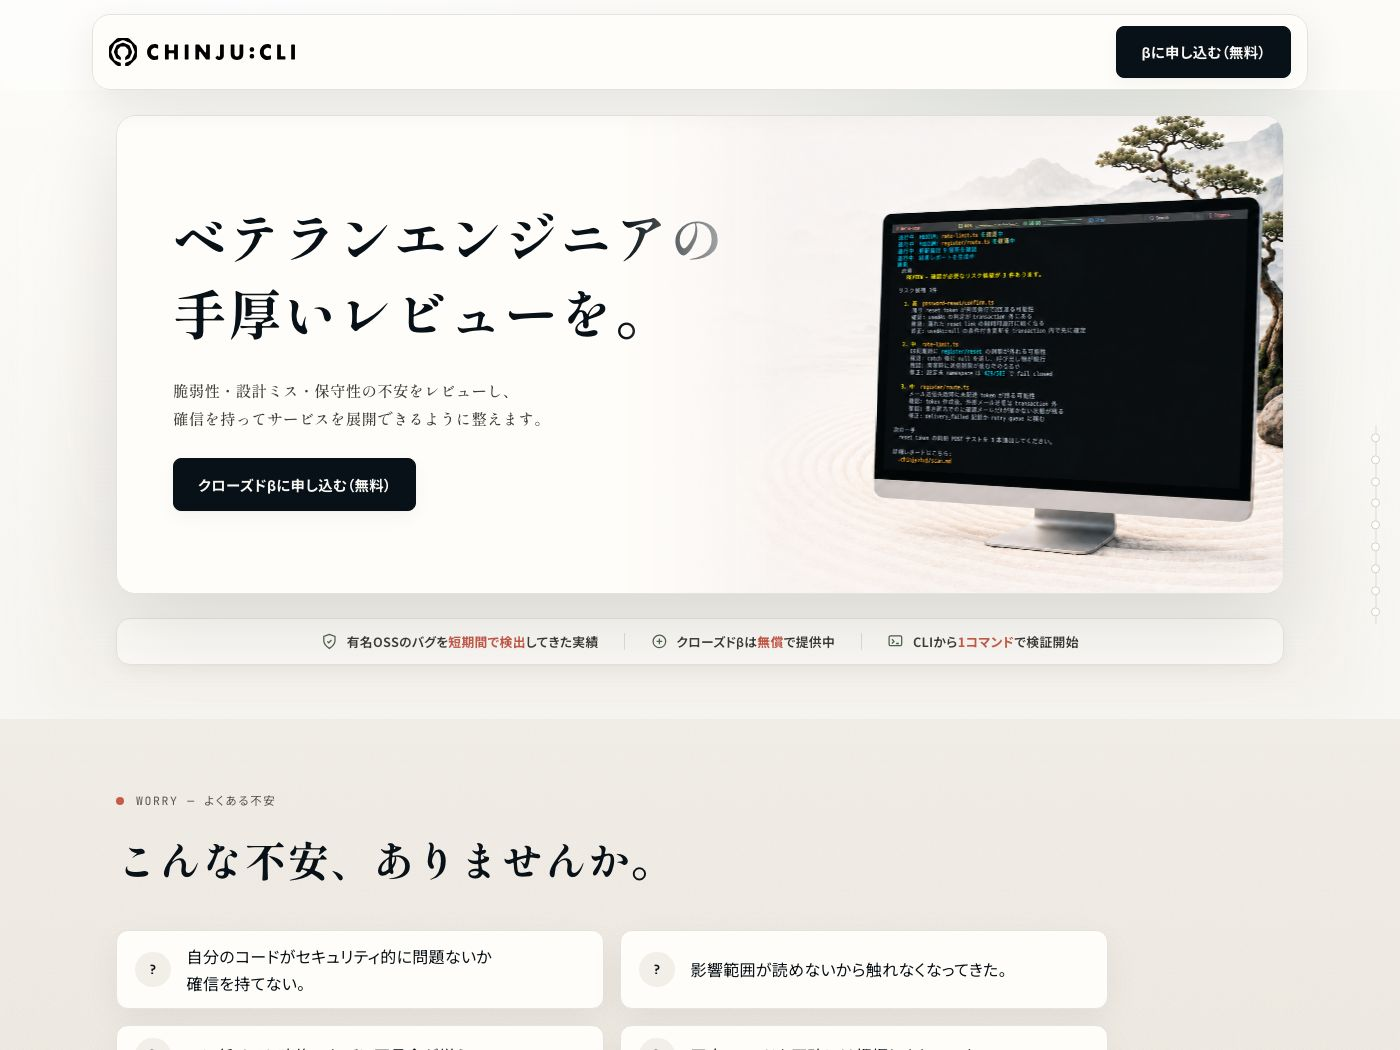
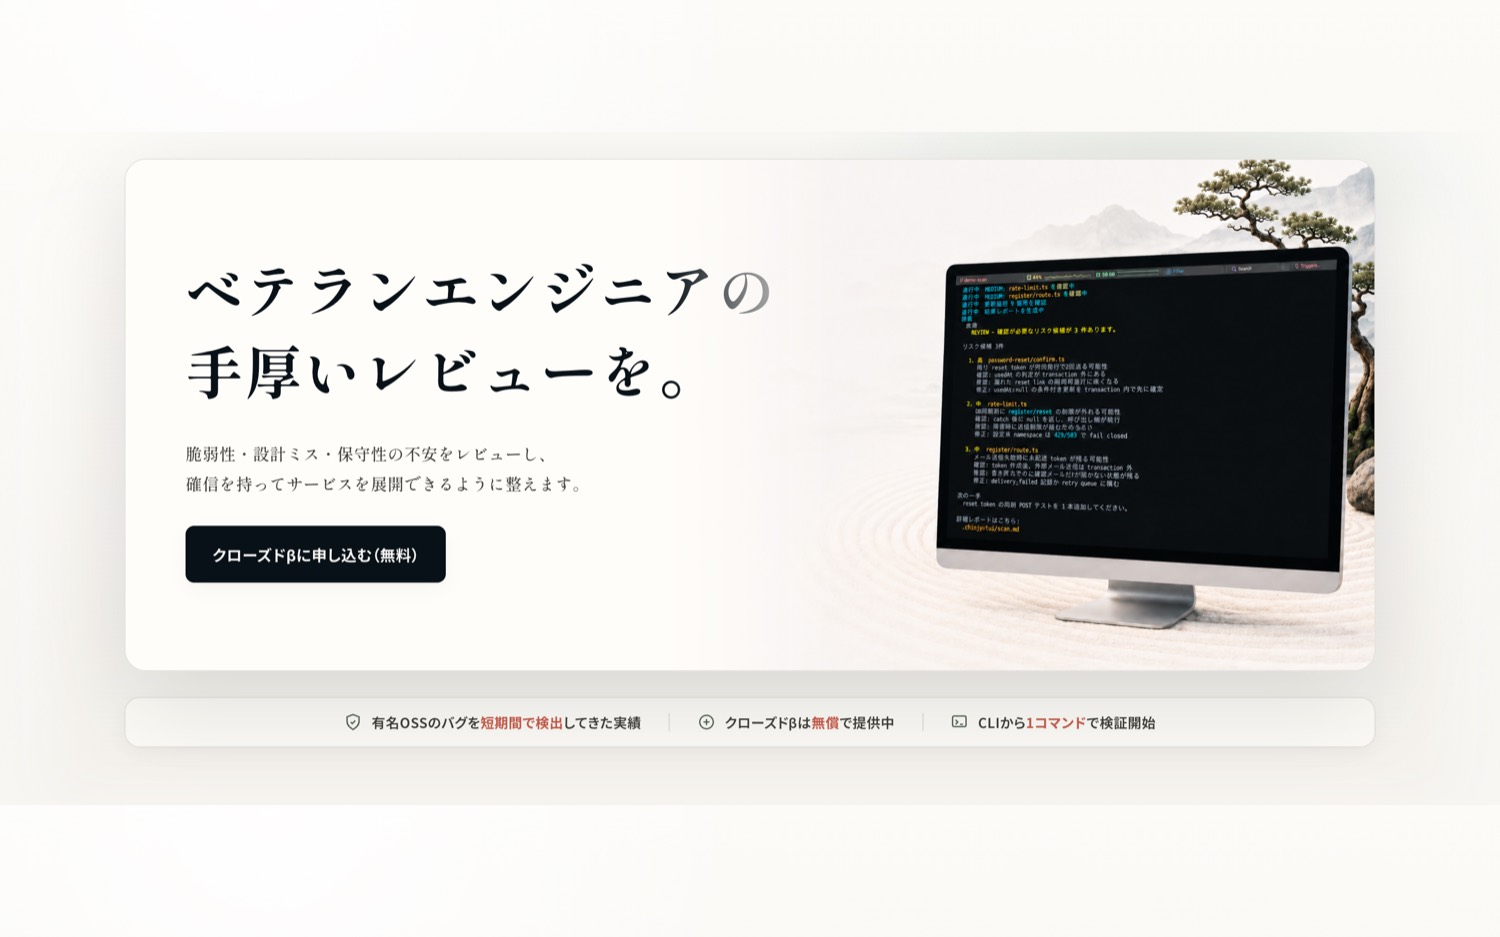
design: CHINJUサムネを16:10ヒーロー切り出しに差し替え
旧画像は全ページ4:3撮影でナビや別セクション見出しが写り込み素のスクショ感が
強かった。v3.0.5 Lisaと同方針で、ヒーロー主要部(大見出し+iMacのCLIレビュー
画面+枯山水+信頼バー)を16:10(1500×937)で切り出して撮影。撮影時に上部ナビ・
右端ドットナビ・ヒーロー以降の全セクション/フッターをCSSで非表示にし、
ヒーローを淡い背景の中央に配置。cover枠比率と一致しPC見切れゼロ、上下余白は
モバイル4:3枠の左右トリムの安全マージンにもなる。画像差し替えのみ。

diff --git a/spec.md b/spec.md
@@ -65,6 +65,7 @@
 | 2.7.2 | 2026-06-10 | Events グリッドの折り返しを 860px→**900px** に変更。861〜883px 付近で Instagram 埋め込みの `min-width: 326px` と2カラムが競合し約2pxはみ出していた問題を解消（works は 860px のまま分離） |
 | 2.8.1 | 2026-07-03 | 制作実績05「Lisa Mizuno」の説明文を、ポートフォリオ掲載文として推敲（見た目・カテゴリ・サムネイルは不変）。①「活動を紹介する」を回避し「活動世界を…構成へ落とし込み」と**制作者視点**の表現に変更（自分のサイト内で他者を「紹介」する語感を解消）、②末尾に `<br><br>デザインから制作まで担当。` を追加し**担当役割を明記**（06 と同じ意図）、③文末を**体言止め**で統一し二重ヲ格を解消。「アーティストポートフォリオサイト」→「ポートフォリオサイト」に簡略化 |
 | 2.8.0 | 2026-07-03 | Works に「CHINJU CLI」カード追加（06）。コードの変更箇所だけでなく影響範囲まで横断レビューする確証エンジンのLP案件。**自作プロダクトではなく LP制作・市場調査・方向性整理・PR を担当した案件**のため、カテゴリを **"LP / Branding & PR"** として区別し、説明文にも担当役割を明記（製品説明と役割を `<br><br>` で段落分け）。サムネイル（`thumb-chinju.jpg`）は Playwright でライブサイトを **4:3（1400×1050）** で撮影し、cover 表示での左右見切れを回避。`.work-thumb-chinju`（LPに合わせたライトな微グラデ背景 `#f2efe9`）を追加。作品一覧6件構成に |
+| 3.0.6 | 2026-07-03 | 制作実績06「CHINJU CLI」サムネイル（`thumb-chinju.jpg`）を差し替え。旧画像（v2.8.0）は全ページを 4:3（1400×1050）で撮影しており左右見切れは無いものの、**上部ナビ（ロゴ＋「βに申し込む」ボタン）や下部の別セクション見出しが写り込み**、素のスクショ感が強かった。v3.0.5 Lisa と同じ方針で、**ヒーロー主要部（大見出し「ベテランエンジニアの手厚いレビューを。」＋iMacのCLIレビュー画面＋枯山水/盆栽＋信頼バー）を 16:10（1500×937）で切り出して撮影**する方式に刷新。撮影時に上部ナビ（`nav.nav`）・右端ドットナビ（`nav.path-nav`）・ヒーロー以降の全セクション/フッターをCSSで非表示にし、`#demo` に軽い `margin-top` を付与してヒーローを淡い背景の中央に配置。cover の枠比率と一致しPC見切れゼロ、上下の余白は860px以下の `4/3` 枠での左右トリムの安全マージンにもなる。他5件と同じ細罫スクショ枠の一貫性を維持（HTML/CSS変更なし・画像差し替えのみ） |
 | 3.0.5 | 2026-07-03 | 制作実績05「Lisa Mizuno」サムネイル（`thumb-lisa-mizuno.jpg`）を差し替え。旧画像は全ページを **1400×800（比率1.75）** で撮影しており、サムネ枠 `aspect-ratio:16/10`（=1.6）＋`object-fit:cover` に対し横長すぎて**左右が見切れて**いた（左上ロゴ・右上ナビが欠ける。860px以下の `4/3` 枠ではさらに悪化）。対処として、v2.8.0 CHINJU と同じ「枠比率に合わせた撮影」の方針を発展させ、**サイト全体ではなくヒーローの主要ビジュアル（モノクロの人物＋大見出しタイポ＋DJ·ARTIST）を 16:10（1600×1000）で切り出して撮影**する方式に変更。撮影時に上部ナビと右下「scroll」指標（`#hero::after` 疑似要素）を非表示にして余白・ブラウザ的要素を排し作品性を強調。cover の枠比率と完全一致しPC表示で見切れゼロ、他5件と同じ細罫スクショ枠の一貫性も維持（HTML/CSS変更なし・画像差し替えのみ） |
 | 3.0.4 | 2026-07-03 | 制作実績02「Nagi（凪）」の説明文を改訂。キャッチ「自己を観る。」は維持し、本文を「書くほどに、視界がひらく自己観察アプリ。」のコンセプト1文＋機能説明1段落の簡潔な2段構成に刷新（AI「凪 -Nagi-」が静かな問いを返す・褒めず諭さず隣で問いかける・多角的に眺め直し視界がひらく、という体験価値を平易に表現）。従来の抽象的な「次元の上昇／多面的視点」表現を平明化 |
 | 3.0.3 | 2026-07-03 | 制作実績01「翡翠眼」の説明文を全面改訂。技術スタックと担当範囲を具体的に伝える内容（Next.js製・為替/株価指数/国債/コモディティを5つの外部APIから集約・月次/週次/日次レポートをリサーチ〜執筆〜公開まで自動生成・Promise.allSettled＋多段ISRキャッシュの障害耐性・金融エディトリアルUIとアクセシビリティ・Vitest＋CIによる品質担保・全体を一気通貫で設計実装）に刷新し2段落構成に変更。段落間余白のため `.work-desc + .work-desc { margin-top: 0.9em }` を追加 |
@@ -150,7 +151,7 @@ v2.5 では、静かで文語的な世界観を保ったまま視覚レイヤー
 │   ├── nagi-calendar.jpg         # Nagi スライド7（カレンダー画面・ライトモード）
 │   ├── thumb-chushinmei.jpg      # 中心銘 メイン画面
 │   ├── thumb-lisa-mizuno.jpg     # Lisa Mizuno ヒーロー主要ビジュアル切り出し（1枚・16:10・1600×1000・モノクローム）
-│   ├── thumb-chinju.jpg          # CHINJU CLI LP ファーストビュー（1枚・4:3撮影・ライト背景）
+│   ├── thumb-chinju.jpg          # CHINJU CLI ヒーロー主要部切り出し（1枚・16:10・1500×937・ライト背景）
 │   ├── freq-video-light.mp4      # Frequency Analyzer 画面収録・ライトモード（188KB）
 │   ├── freq-video-dark.mp4       # Frequency Analyzer 画面収録・ダークモード（112KB・720幅/無音）
 │   ├── ogp.jpg                   # OGP画像（1200×630px・リンク共有プレビュー用・84KB）